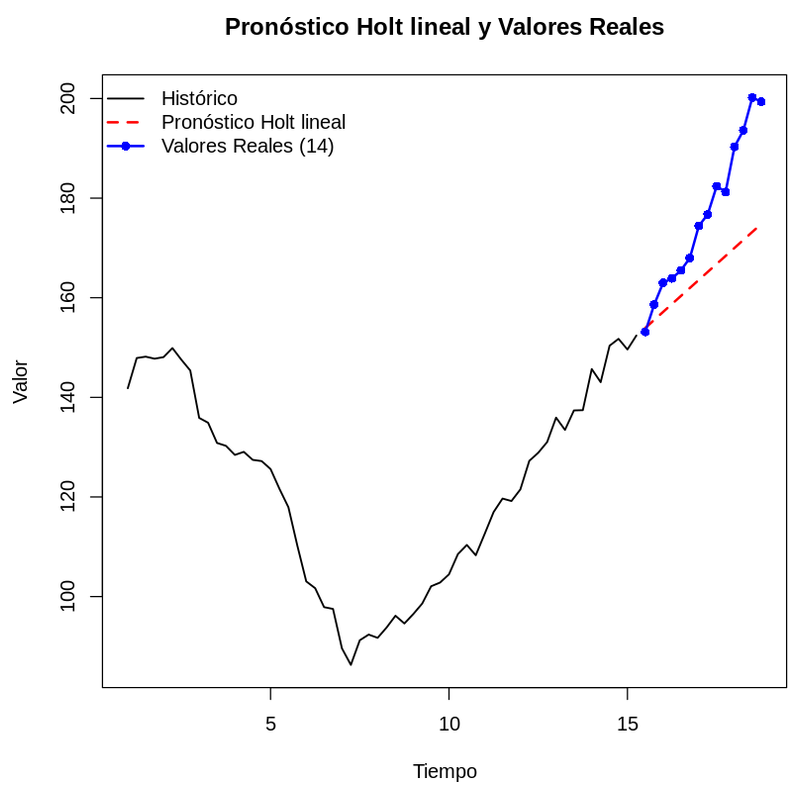
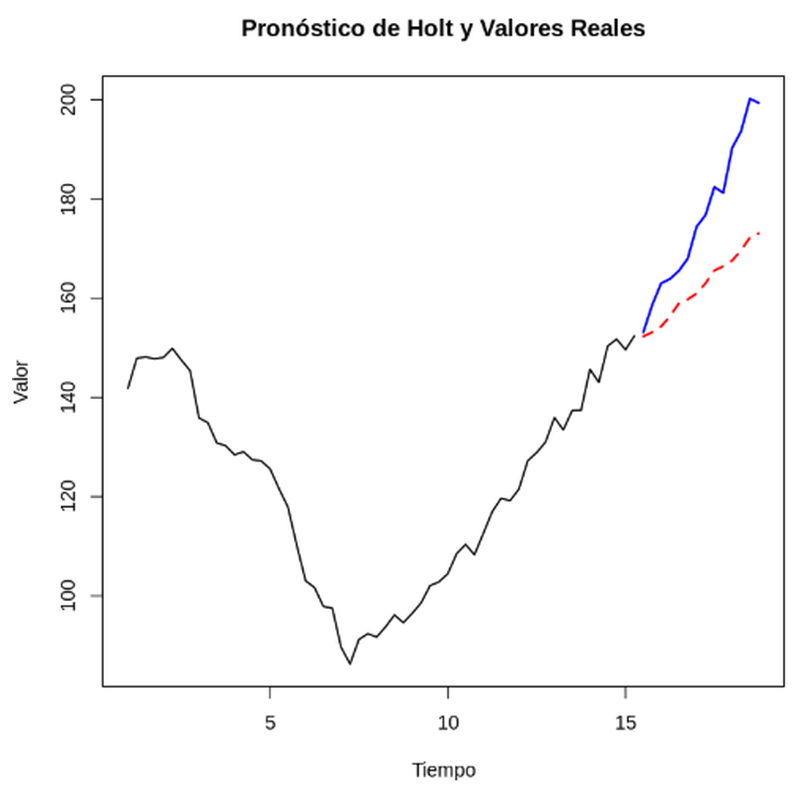
Use report metrics for Holt in results table; adjust takeaways and Holt figure accordingly

diff --git a/README.md b/README.md
@@ -42,9 +42,11 @@ The Augmented Dickey-Fuller test confirms the series is non-stationary (p = 0.91
 | Model | RMSE | MAE | MSE |
 |---|---:|---:|---:|
 | **ARIMA (0,2,1)** | **12.24** | **10.03** | **149.72** |
-| Holt linear | 14.69 | 12.19 | 215.72 |
 | ETS (A,A,N) | 14.69 | 12.19 | 215.72 |
+| Holt linear | 16.28 | 14.08 | 264.89 |
 | XGBoost (4 lags) | 44.41 | 41.34 | 1972.46 |
+
+*Holt metrics as reported in the project report and slides. Note that `holt()` in the published notebook fits the same underlying model as ETS(A,A,N), so running the notebook reproduces the ETS figures for the Holt call.*
 
 | **ARIMA (0,2,1), best** | **XGBoost, worst** |
 |---|---|
@@ -55,7 +57,7 @@ The Augmented Dickey-Fuller test confirms the series is non-stationary (p = 0.91
 ## Key takeaways
 
 - **ARIMA(0,2,1) wins** across every metric, tracking the post-2021 acceleration most closely.
-- **ETS and Holt produce identical errors**: ETS(A,A,N) *is* Holt's linear method in state-space form, a reassuring internal consistency check.
+- **ETS comes second, with Holt close behind**: both project the trend upward but undershoot the post-2021 acceleration.
 - **XGBoost fails by design, not by tuning**: tree-based models cannot extrapolate beyond the range seen in training, so recursive forecasts flatten out while real prices kept climbing. A textbook illustration of why ML is not automatically better for small, strongly-trended series.
 - In a real use case the simpler statistical models would be preferred: better accuracy *and* lower computational cost.
 